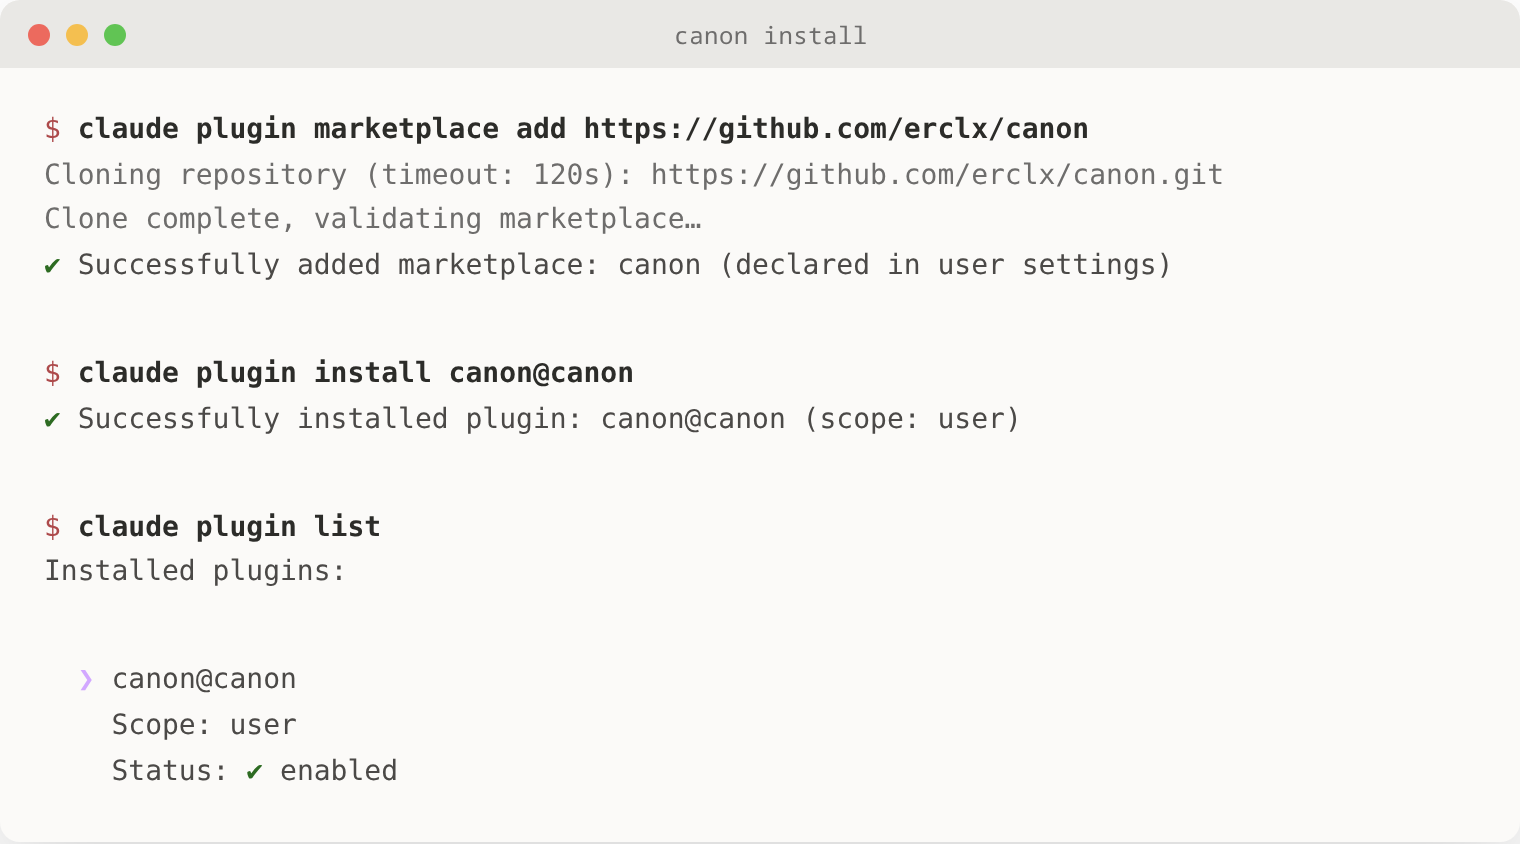
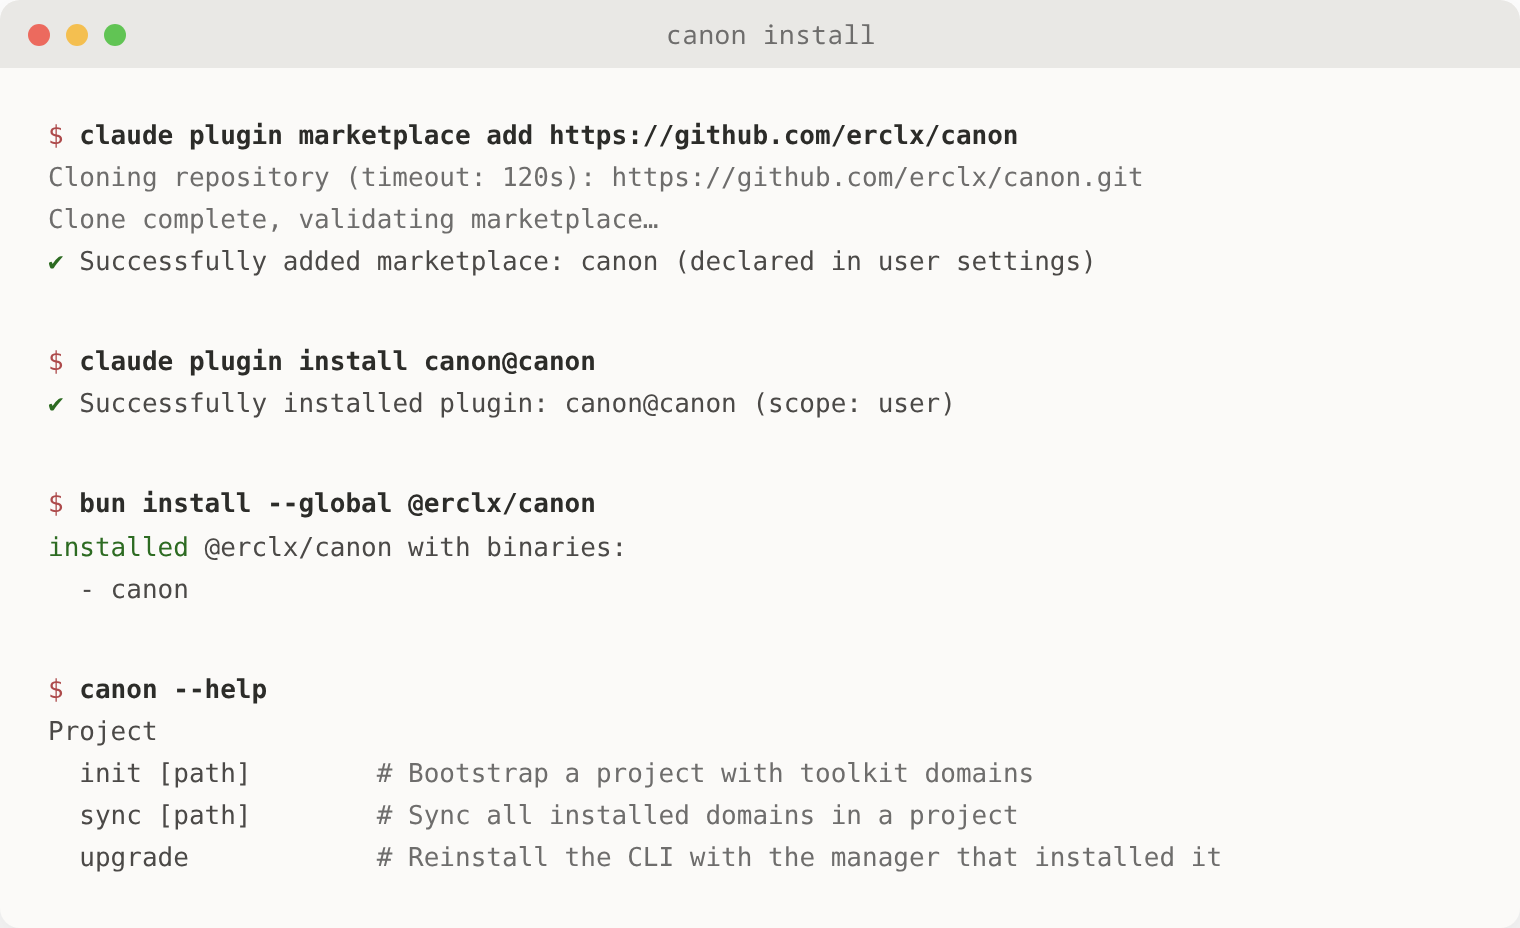
chore(web): refresh capture frames (#1804)
## Key Changes

- Regenerates the count and token bearing frames, their images, and their stamps from main.
- Merge by hand. Nothing in this workflow merges it.

diff --git a/assets/captures/install-light.html b/assets/captures/install-light.html
@@ -3,17 +3,23 @@
   Generated by scripts/core/regen-hero.sh from assets/captures/install.html.tmpl. Do not
   edit this file. The token block below is filled from
   `canon design css --no-components`, so a value moved in src/design/tokens.ts
-  moves this frame and `bun run check` fails on the difference.
+  moves this frame the next time the regen runs. A branch does not commit the
+  regenerated file, and the refresh workflow opens the pull request that does.
 
   Source for install.png. Every line of terminal text below came from a real run
-  of the three commands against a scratch CLAUDE_CONFIG_DIR. Re-run them before
-  changing the text, never hand-edit the output. The text lives in the template
-  beside this comment.
+  of the four commands against a scratch CLAUDE_CONFIG_DIR and a scratch
+  BUN_INSTALL, except the `canon --help` rows, which came from
+  `bun src/cli.ts --help` in a checkout because the published binary predates
+  the grouping. Re-run them before changing the text, never hand-edit the
+  output. The text lives in the template beside this comment.
 
-  Two elisions, both deliberate. Progress lines are dropped for length, and the
-  version row of `claude plugin list` is dropped because a version rendered into
-  a committed binary is wrong from the next release onward and nothing checks it.
-  The enabled row proves the install landed without dating the frame.
+  Four elisions, all deliberate. Progress lines are dropped for length. The
+  version in the bun install line is dropped because a version rendered into a
+  committed binary is wrong from the next release onward and nothing checks it.
+  `canon --help` quotes the Project group alone, its first three rows, since
+  that is the group a newly installed reader needs. The box glyph column that
+  command emits into a pipe is stripped, since no command above it carries one
+  and it renders as a stray vertical rule down the left of the last block.
 -->
 <html>
   <head>
@@ -114,13 +120,13 @@
       }
       body {
         background: transparent;
-        padding: 28px;
-        font-family: 'Noto Sans Mono', 'DejaVu Sans Mono', monospace;
+        padding: var(--space-lg);
+        font-family: var(--type-code-family);
       }
       .window {
         width: 760px;
         background: var(--color-background);
-        border-radius: 10px;
+        border-radius: var(--radius-panel);
         overflow: hidden;
         box-shadow: 0 18px 48px var(--frame-shadow, rgba(0, 0, 0, 0.45));
       }
@@ -129,8 +135,8 @@
         background: var(--color-chrome);
         display: flex;
         align-items: center;
-        padding: 0 14px;
-        gap: 8px;
+        padding: 0 var(--space-md);
+        gap: var(--space-sm);
       }
       .dot {
         width: 11px;
@@ -148,7 +154,6 @@
       :root {
         --chrome-dot-red: #ec6a5e;
         --chrome-dot-yellow: #f4bf50;
-        --key-color: #d2a8ff;
       }
       .red {
         background: var(--chrome-dot-red);
@@ -163,13 +168,13 @@
         flex: 1;
         text-align: center;
         color: var(--color-muted);
-        font-size: 12px;
+        font-size: var(--type-label-size);
         letter-spacing: 0.02em;
         margin-right: 46px;
       }
       pre {
-        padding: 20px 22px 24px;
-        font-size: 14px;
+        padding: var(--space-lg);
+        font-size: var(--type-code-size);
         line-height: 1.62;
         color: var(--color-text-body);
         white-space: pre-wrap;
@@ -186,15 +191,6 @@
       }
       .ok {
         color: var(--color-success);
-      }
-
-      /* One surface asks for this and the record holds no role for it. A role
-         invented for a single reader is a value nothing derives from, so it
-         stays literal until a second surface needs it. Named above with the
-         dots for the same reason: one place to read the value, not a hex
-         buried in a selector. */
-      .key {
-        color: var(--key-color);
       }
       .blank {
         display: block;
@@ -218,12 +214,15 @@
 <span class="prompt">$</span> <span class="cmd">claude plugin install canon@canon</span>
 <span class="ok">✔</span> Successfully installed plugin: canon@canon (scope: user)
 <span class="blank"></span>
-<span class="prompt">$</span> <span class="cmd">claude plugin list</span>
-Installed plugins:
+<span class="prompt">$</span> <span class="cmd">bun install --global @erclx/canon</span>
+<span class="ok">installed</span> @erclx/canon with binaries:
+  - canon
 <span class="blank"></span>
-  <span class="key">❯</span> canon@canon
-    Scope: user
-    Status: <span class="ok">✔</span> enabled</pre>
+<span class="prompt">$</span> <span class="cmd">canon --help</span>
+Project
+  init [path]        <span class="muted"># Bootstrap a project with toolkit domains</span>
+  sync [path]        <span class="muted"># Sync all installed domains in a project</span>
+  upgrade            <span class="muted"># Reinstall the CLI with the manager that installed it</span></pre>
     </div>
   </body>
 </html>

diff --git a/assets/captures/install.html b/assets/captures/install.html
@@ -3,17 +3,23 @@
   Generated by scripts/core/regen-hero.sh from assets/captures/install.html.tmpl. Do not
   edit this file. The token block below is filled from
   `canon design css --no-components`, so a value moved in src/design/tokens.ts
-  moves this frame and `bun run check` fails on the difference.
+  moves this frame the next time the regen runs. A branch does not commit the
+  regenerated file, and the refresh workflow opens the pull request that does.
 
   Source for install.png. Every line of terminal text below came from a real run
-  of the three commands against a scratch CLAUDE_CONFIG_DIR. Re-run them before
-  changing the text, never hand-edit the output. The text lives in the template
-  beside this comment.
+  of the four commands against a scratch CLAUDE_CONFIG_DIR and a scratch
+  BUN_INSTALL, except the `canon --help` rows, which came from
+  `bun src/cli.ts --help` in a checkout because the published binary predates
+  the grouping. Re-run them before changing the text, never hand-edit the
+  output. The text lives in the template beside this comment.
 
-  Two elisions, both deliberate. Progress lines are dropped for length, and the
-  version row of `claude plugin list` is dropped because a version rendered into
-  a committed binary is wrong from the next release onward and nothing checks it.
-  The enabled row proves the install landed without dating the frame.
+  Four elisions, all deliberate. Progress lines are dropped for length. The
+  version in the bun install line is dropped because a version rendered into a
+  committed binary is wrong from the next release onward and nothing checks it.
+  `canon --help` quotes the Project group alone, its first three rows, since
+  that is the group a newly installed reader needs. The box glyph column that
+  command emits into a pipe is stripped, since no command above it carries one
+  and it renders as a stray vertical rule down the left of the last block.
 -->
 <html>
   <head>
@@ -100,13 +106,13 @@
       }
       body {
         background: transparent;
-        padding: 28px;
-        font-family: 'Noto Sans Mono', 'DejaVu Sans Mono', monospace;
+        padding: var(--space-lg);
+        font-family: var(--type-code-family);
       }
       .window {
         width: 760px;
         background: var(--color-background);
-        border-radius: 10px;
+        border-radius: var(--radius-panel);
         overflow: hidden;
         box-shadow: 0 18px 48px var(--frame-shadow, rgba(0, 0, 0, 0.45));
       }
@@ -115,8 +121,8 @@
         background: var(--color-chrome);
         display: flex;
         align-items: center;
-        padding: 0 14px;
-        gap: 8px;
+        padding: 0 var(--space-md);
+        gap: var(--space-sm);
       }
       .dot {
         width: 11px;
@@ -134,7 +140,6 @@
       :root {
         --chrome-dot-red: #ec6a5e;
         --chrome-dot-yellow: #f4bf50;
-        --key-color: #d2a8ff;
       }
       .red {
         background: var(--chrome-dot-red);
@@ -149,13 +154,13 @@
         flex: 1;
         text-align: center;
         color: var(--color-muted);
-        font-size: 12px;
+        font-size: var(--type-label-size);
         letter-spacing: 0.02em;
         margin-right: 46px;
       }
       pre {
-        padding: 20px 22px 24px;
-        font-size: 14px;
+        padding: var(--space-lg);
+        font-size: var(--type-code-size);
         line-height: 1.62;
         color: var(--color-text-body);
         white-space: pre-wrap;
@@ -172,15 +177,6 @@
       }
       .ok {
         color: var(--color-success);
-      }
-
-      /* One surface asks for this and the record holds no role for it. A role
-         invented for a single reader is a value nothing derives from, so it
-         stays literal until a second surface needs it. Named above with the
-         dots for the same reason: one place to read the value, not a hex
-         buried in a selector. */
-      .key {
-        color: var(--key-color);
       }
       .blank {
         display: block;
@@ -204,12 +200,15 @@
 <span class="prompt">$</span> <span class="cmd">claude plugin install canon@canon</span>
 <span class="ok">✔</span> Successfully installed plugin: canon@canon (scope: user)
 <span class="blank"></span>
-<span class="prompt">$</span> <span class="cmd">claude plugin list</span>
-Installed plugins:
+<span class="prompt">$</span> <span class="cmd">bun install --global @erclx/canon</span>
+<span class="ok">installed</span> @erclx/canon with binaries:
+  - canon
 <span class="blank"></span>
-  <span class="key">❯</span> canon@canon
-    Scope: user
-    Status: <span class="ok">✔</span> enabled</pre>
+<span class="prompt">$</span> <span class="cmd">canon --help</span>
+Project
+  init [path]        <span class="muted"># Bootstrap a project with toolkit domains</span>
+  sync [path]        <span class="muted"># Sync all installed domains in a project</span>
+  upgrade            <span class="muted"># Reinstall the CLI with the manager that installed it</span></pre>
     </div>
   </body>
 </html>

diff --git a/assets/captures/hero.html b/assets/captures/hero.html
@@ -283,7 +283,7 @@
         <div class="cols">
           <div class="col">
             <div class="col-head">
-              <span class="col-name">skills</span><span class="col-count">84</span>
+              <span class="col-name">skills</span><span class="col-count">82</span>
             </div>
             <div class="col-dest">via the plugin</div>
             <div class="entry">plan-feature</div>
@@ -296,7 +296,7 @@
             <div class="entry">git-ship</div>
             <div class="entry">target-setup</div>
             <div class="entry">systematic-debugging</div>
-            <div class="more">+74 more</div>
+            <div class="more">+72 more</div>
           </div>
 
           <div class="col">
